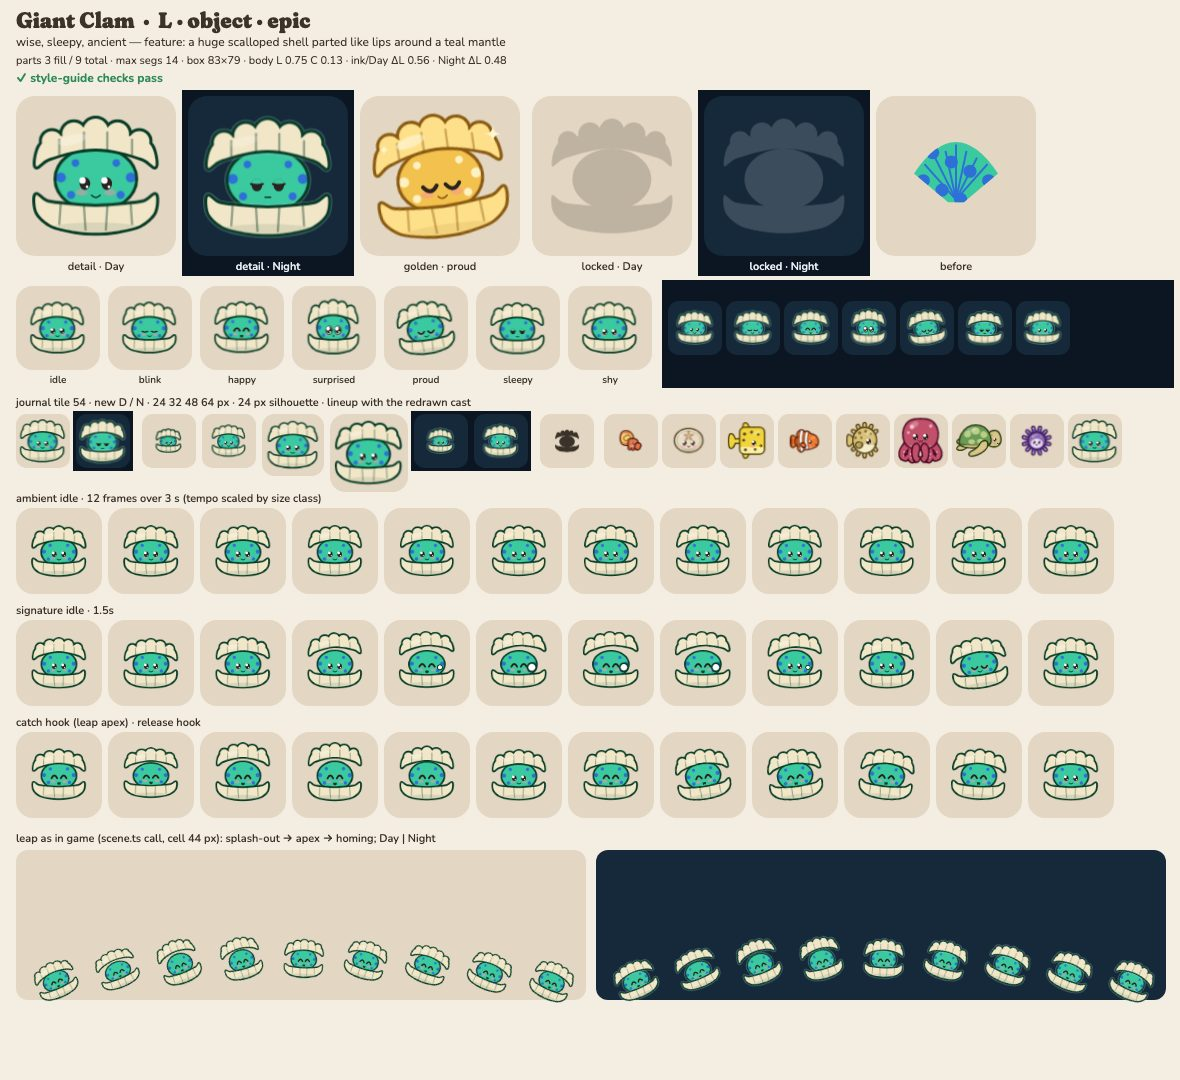
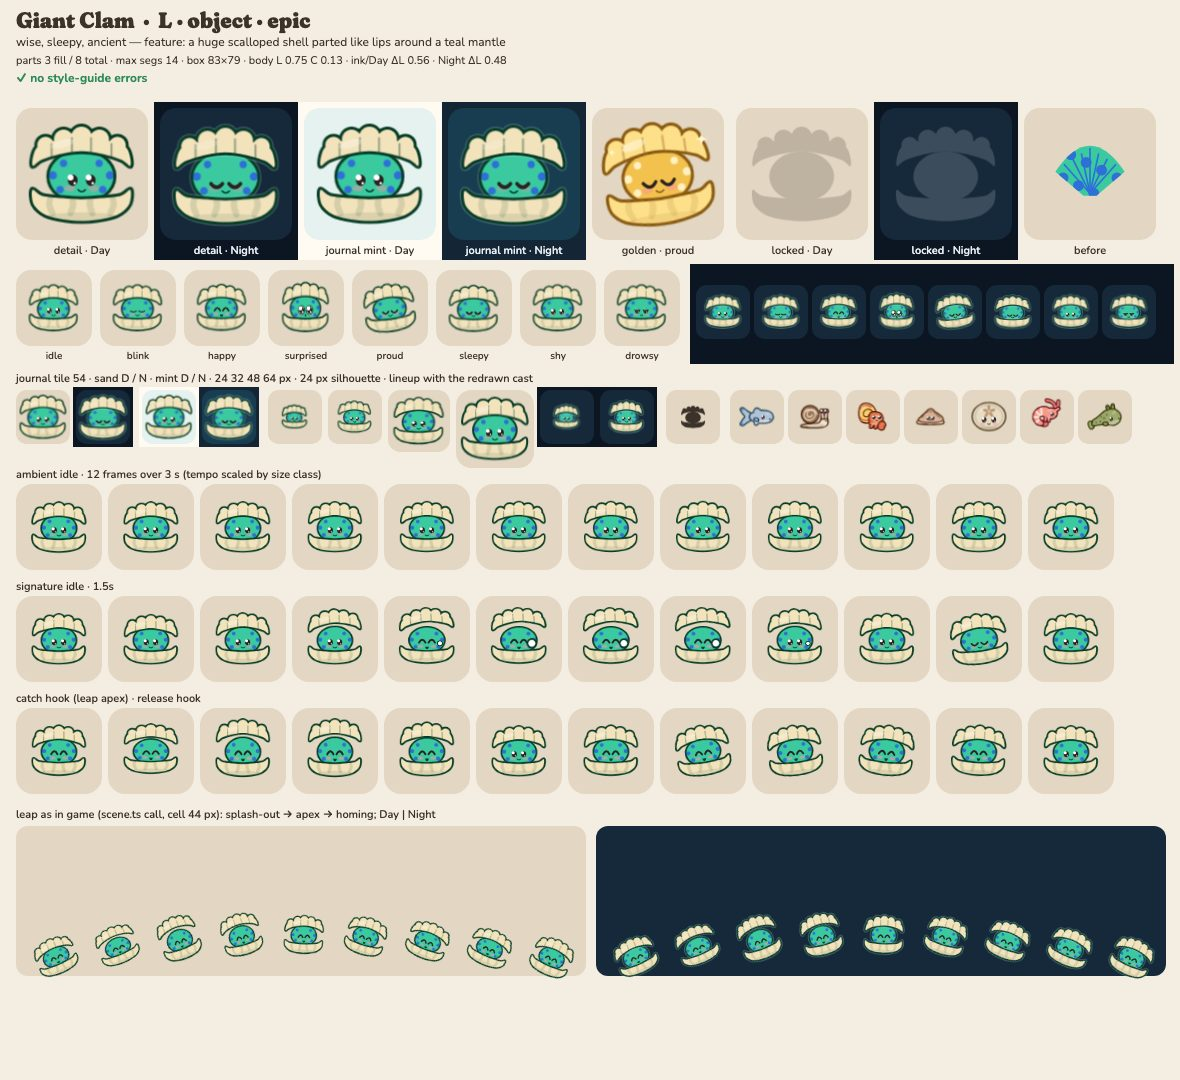
art: giantclam redo, wide wavy bowl ridges, bigger eyes, lint clean (ADR 0011)

diff --git a/src/render/art/species/giantclam.ts b/src/render/art/species/giantclam.ts
@@ -7,7 +7,7 @@
  * Signature: the lid slowly lifts to reveal a pearl, then closes with a satisfied, smug smile.
  * Groups (back to front): mantle (the face rides on it), base valve, lid valve, pearl (prop).
  */
-import { blob, circle, defineArt, ellipse, join } from '../kit.ts';
+import { blob, circle, defineArt, ellipse, join, tube } from '../kit.ts';
 
 // top valve: a dome with a waved lower lip, crowned by five fluted lobes
 const lid = join(
@@ -56,15 +56,22 @@ const base = blob(
 const mantle = ellipse(0, -1, 27, 21);
 // fluted ridges: four radial lines per valve (R18: ribs as 3–5 ridges)
 const lidRibs = 'M-25 -16L-25 -28M-8 -20L-8 -33M8 -20L8 -33M25 -16L25 -28';
-const baseRibs = 'M-24 15L-25 30M-8 18L-7 34M8 18L7 34M24 15L25 30';
+// four wide, gently wavy ridges on the bowl (hairlines here read as teeth)
+const ridge = (x: number, dx: number) =>
+  tube([
+    [x, 14, 2.2],
+    [x + dx, 22, 2.6],
+    [x - dx * 0.5, 30, 2.4],
+  ]);
+const baseRibs = join(ridge(-25, -2), ridge(-8.5, 1.5), ridge(8.5, -1.5), ridge(25, 2));
 // blue mantle spots, hand placed clear of the face
 const spots = join(
   circle(-24, -2, 3.4),
   circle(24, -2, 3.4),
-  circle(-17, 10, 2.8),
-  circle(17, 10, 2.8),
-  circle(-14, -12, 2.6),
-  circle(14, -12, 2.6),
+  circle(-18, 10, 3.2),
+  circle(18, 10, 3.2),
+  circle(-15, -12, 3.1),
+  circle(15, -12, 3.1),
 );
 
 export default defineArt({
@@ -73,7 +80,7 @@ export default defineArt({
   size: 'L',
   feature: 'a huge scalloped shell parted like lips around a teal mantle',
   personality: ['wise', 'sleepy', 'ancient'],
-  palette: { body: '#3BC9A0', accent: '#2E6FD8', belly: '#F2E6C8' },
+  palette: { body: '#3BC9A0', accent: '#2E6FD8', belly: '#F3E3BC' },
   groups: [
     {
       id: 'mantle',
@@ -87,7 +94,7 @@ export default defineArt({
       pivot: [0, 20],
       parts: [
         { d: base, role: 'belly' },
-        { d: baseRibs, role: 'ink', kind: 'line', w: 1.6, alpha: 0.4 },
+        { d: baseRibs, role: 'ink', kind: 'pattern', alpha: 0.13 },
         { d: ellipse(0, 36, 40, 7), role: 'ink', kind: 'pattern', alpha: 0.1 },
       ],
     },
@@ -103,10 +110,7 @@ export default defineArt({
       id: 'pearl',
       pivot: [21, 4],
       prop: true,
-      parts: [
-        { d: circle(21, 4, 5.4), role: 'white' },
-        { d: circle(19.4, 2.4, 1.6), role: 'accent', kind: 'pattern', alpha: 0.25 },
-      ],
+      parts: [{ d: circle(21, 4, 5.4), role: 'white' }],
     },
   ],
   shineOn: 'lid',
@@ -117,8 +121,8 @@ export default defineArt({
       [-7.5, 2],
       [7.5, 2],
     ],
-    eye: 8.6,
-    zone: [-28, -19, 56, 36],
+    eye: 9.6,
+    zone: [-28, -20, 56, 40],
     mouth: { at: [0, 10], w: 6, shape: 'smile' },
     front: true,
     sweet: true,

diff --git a/docs/art/notes/fleet-2.md b/docs/art/notes/fleet-2.md
@@ -241,3 +241,10 @@ Worst same-class pair overall among mine: clownfish/sunfish 0.684 and limpet/nau
   moustache when the eyes were close).
 - Eye 10 (above the 9.7 floor); crown tubercles ≥ 6 units (R18W). Lint clean.
 - IoU: clownfish 0.62, puffer 0.61 (cross-class). Self-grade A-.
+
+## giantclam (graded B → redo)
+- The bowl's hairline ribs (read as taco teeth) are now four wide, gently wavy ridges (tubes 4.4–5.2
+  units, ink at 13 %); shell `#F3E3BC`.
+- Mantle spots all ≥ 6.2 units (R18W); the tiny pearl highlight dot is gone (the white pearl reads alone).
+- Eyes 9.6 (24 % of a slightly taller face zone) so the face holds at 54 px. Lint clean.
+- IoU: octopus 0.70, kraken 0.69 (cross-class, limit 0.80); sand dollar 0.64 (same class). Self-grade A-.
